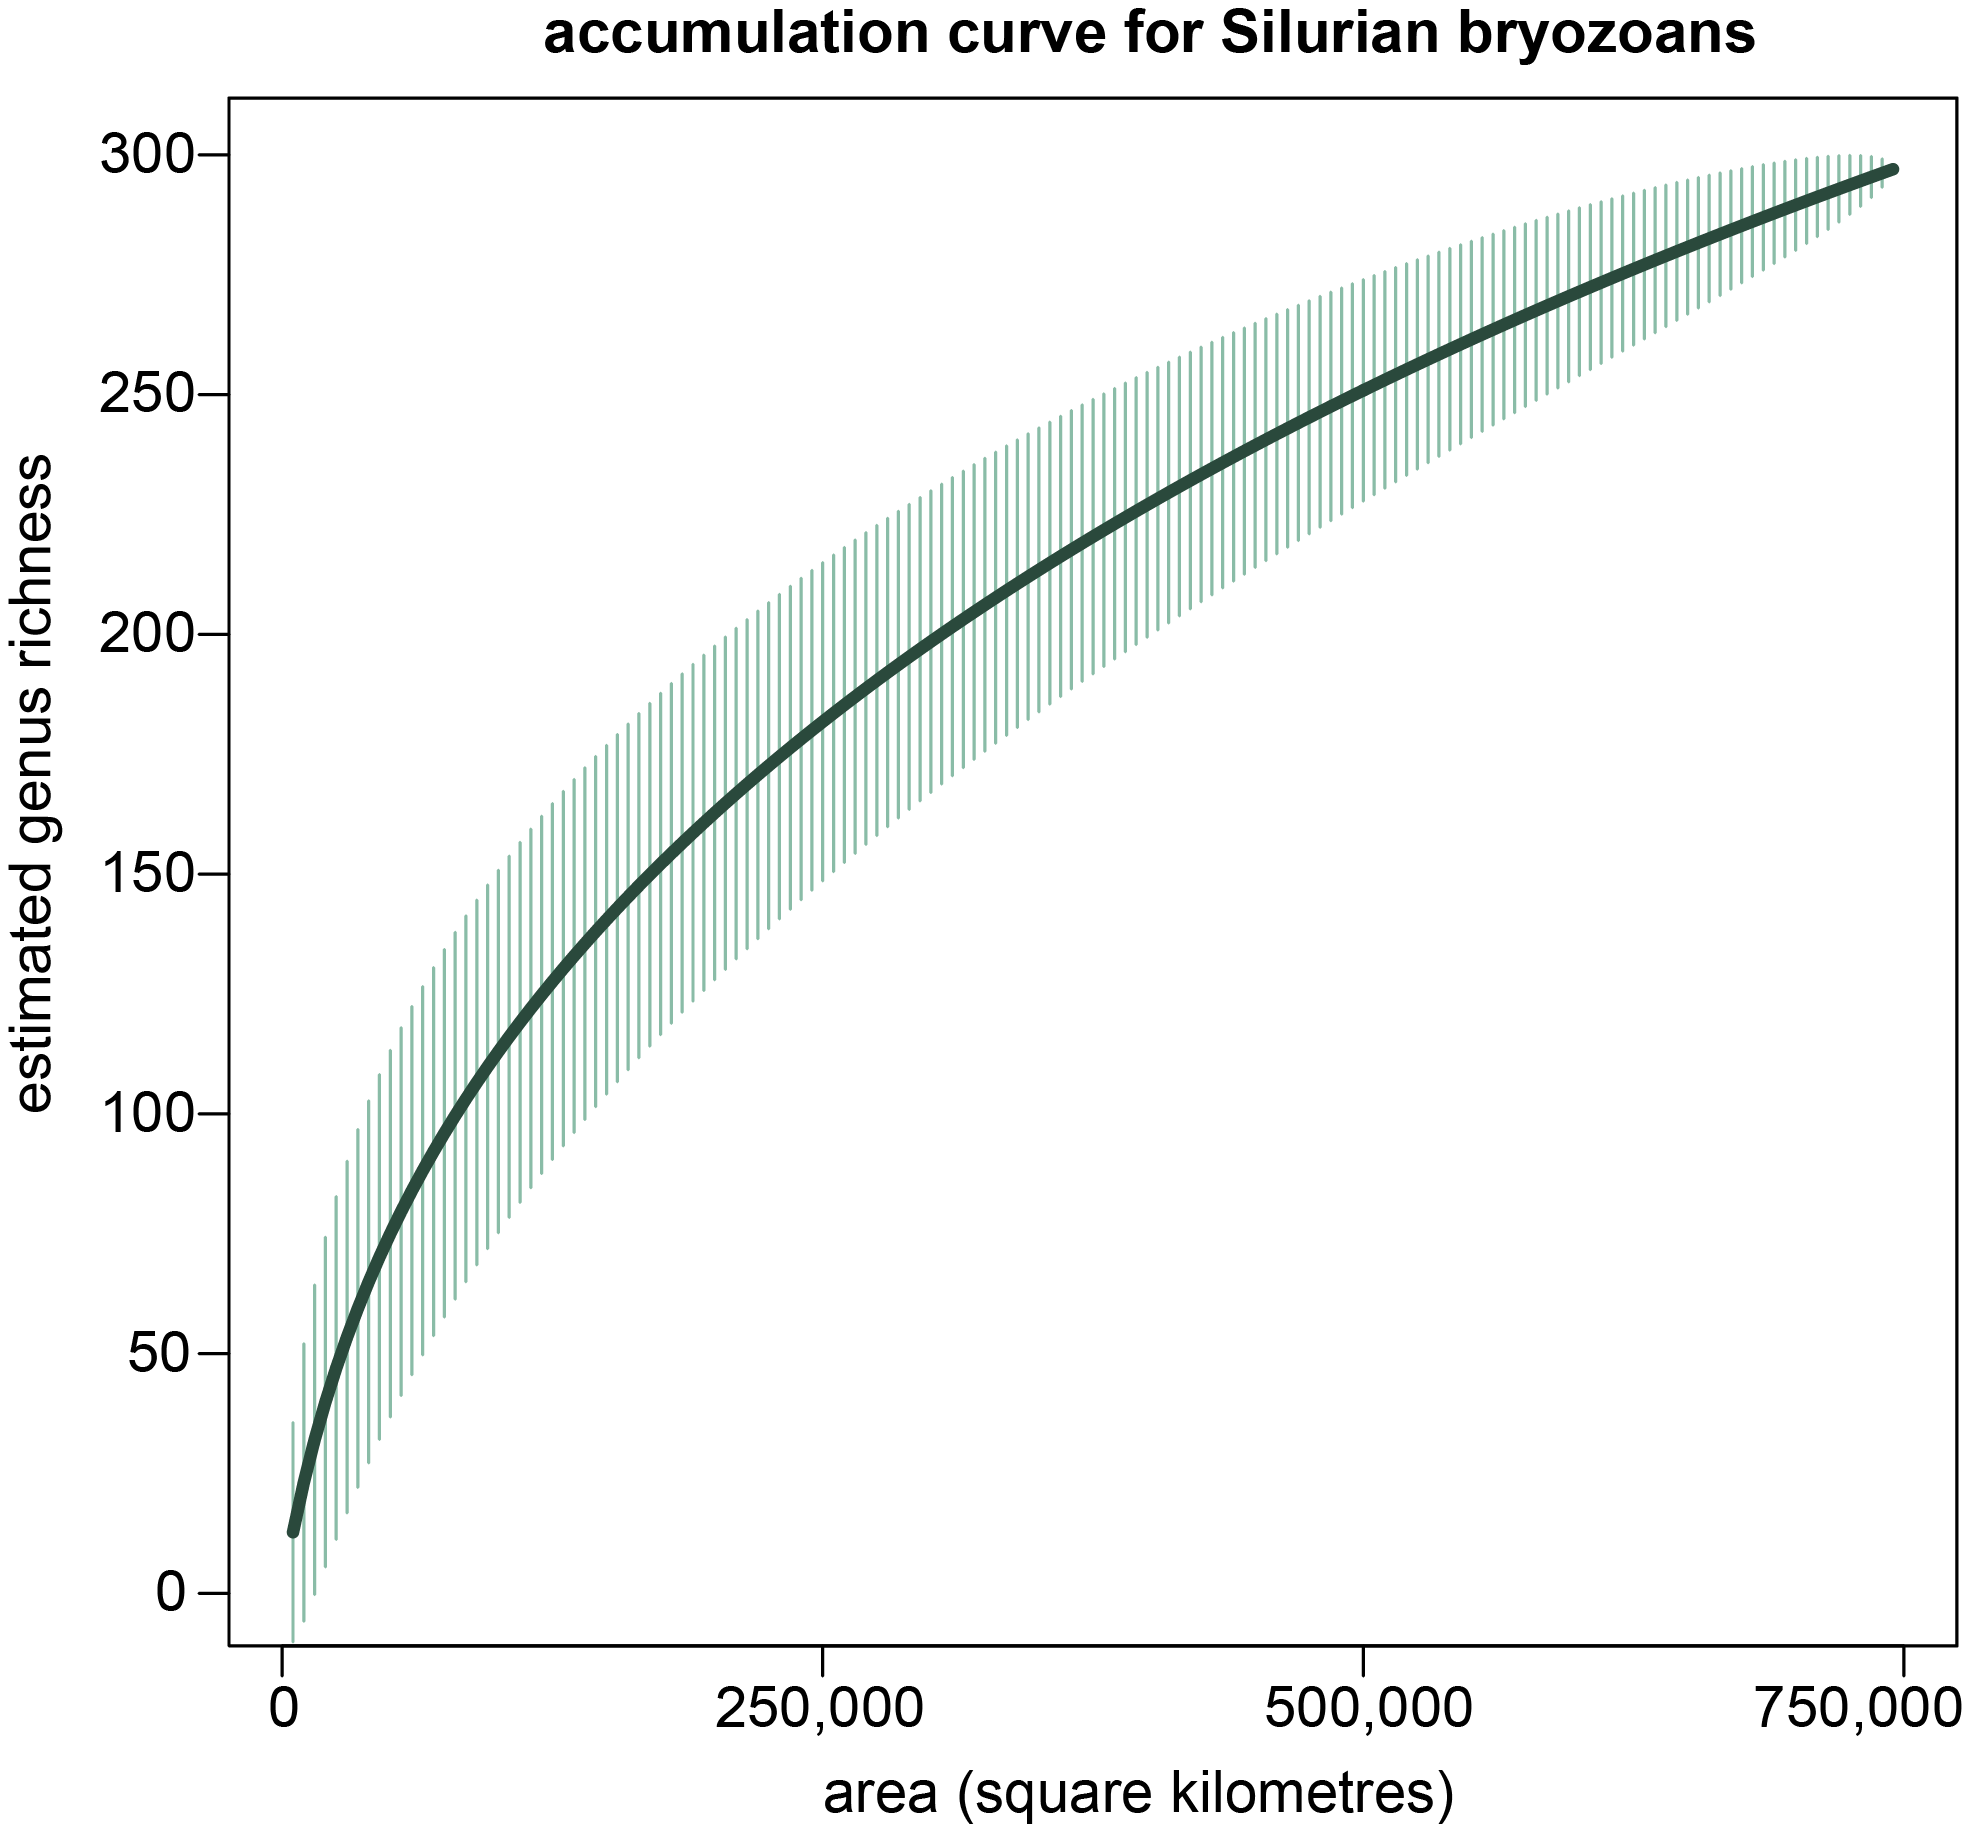
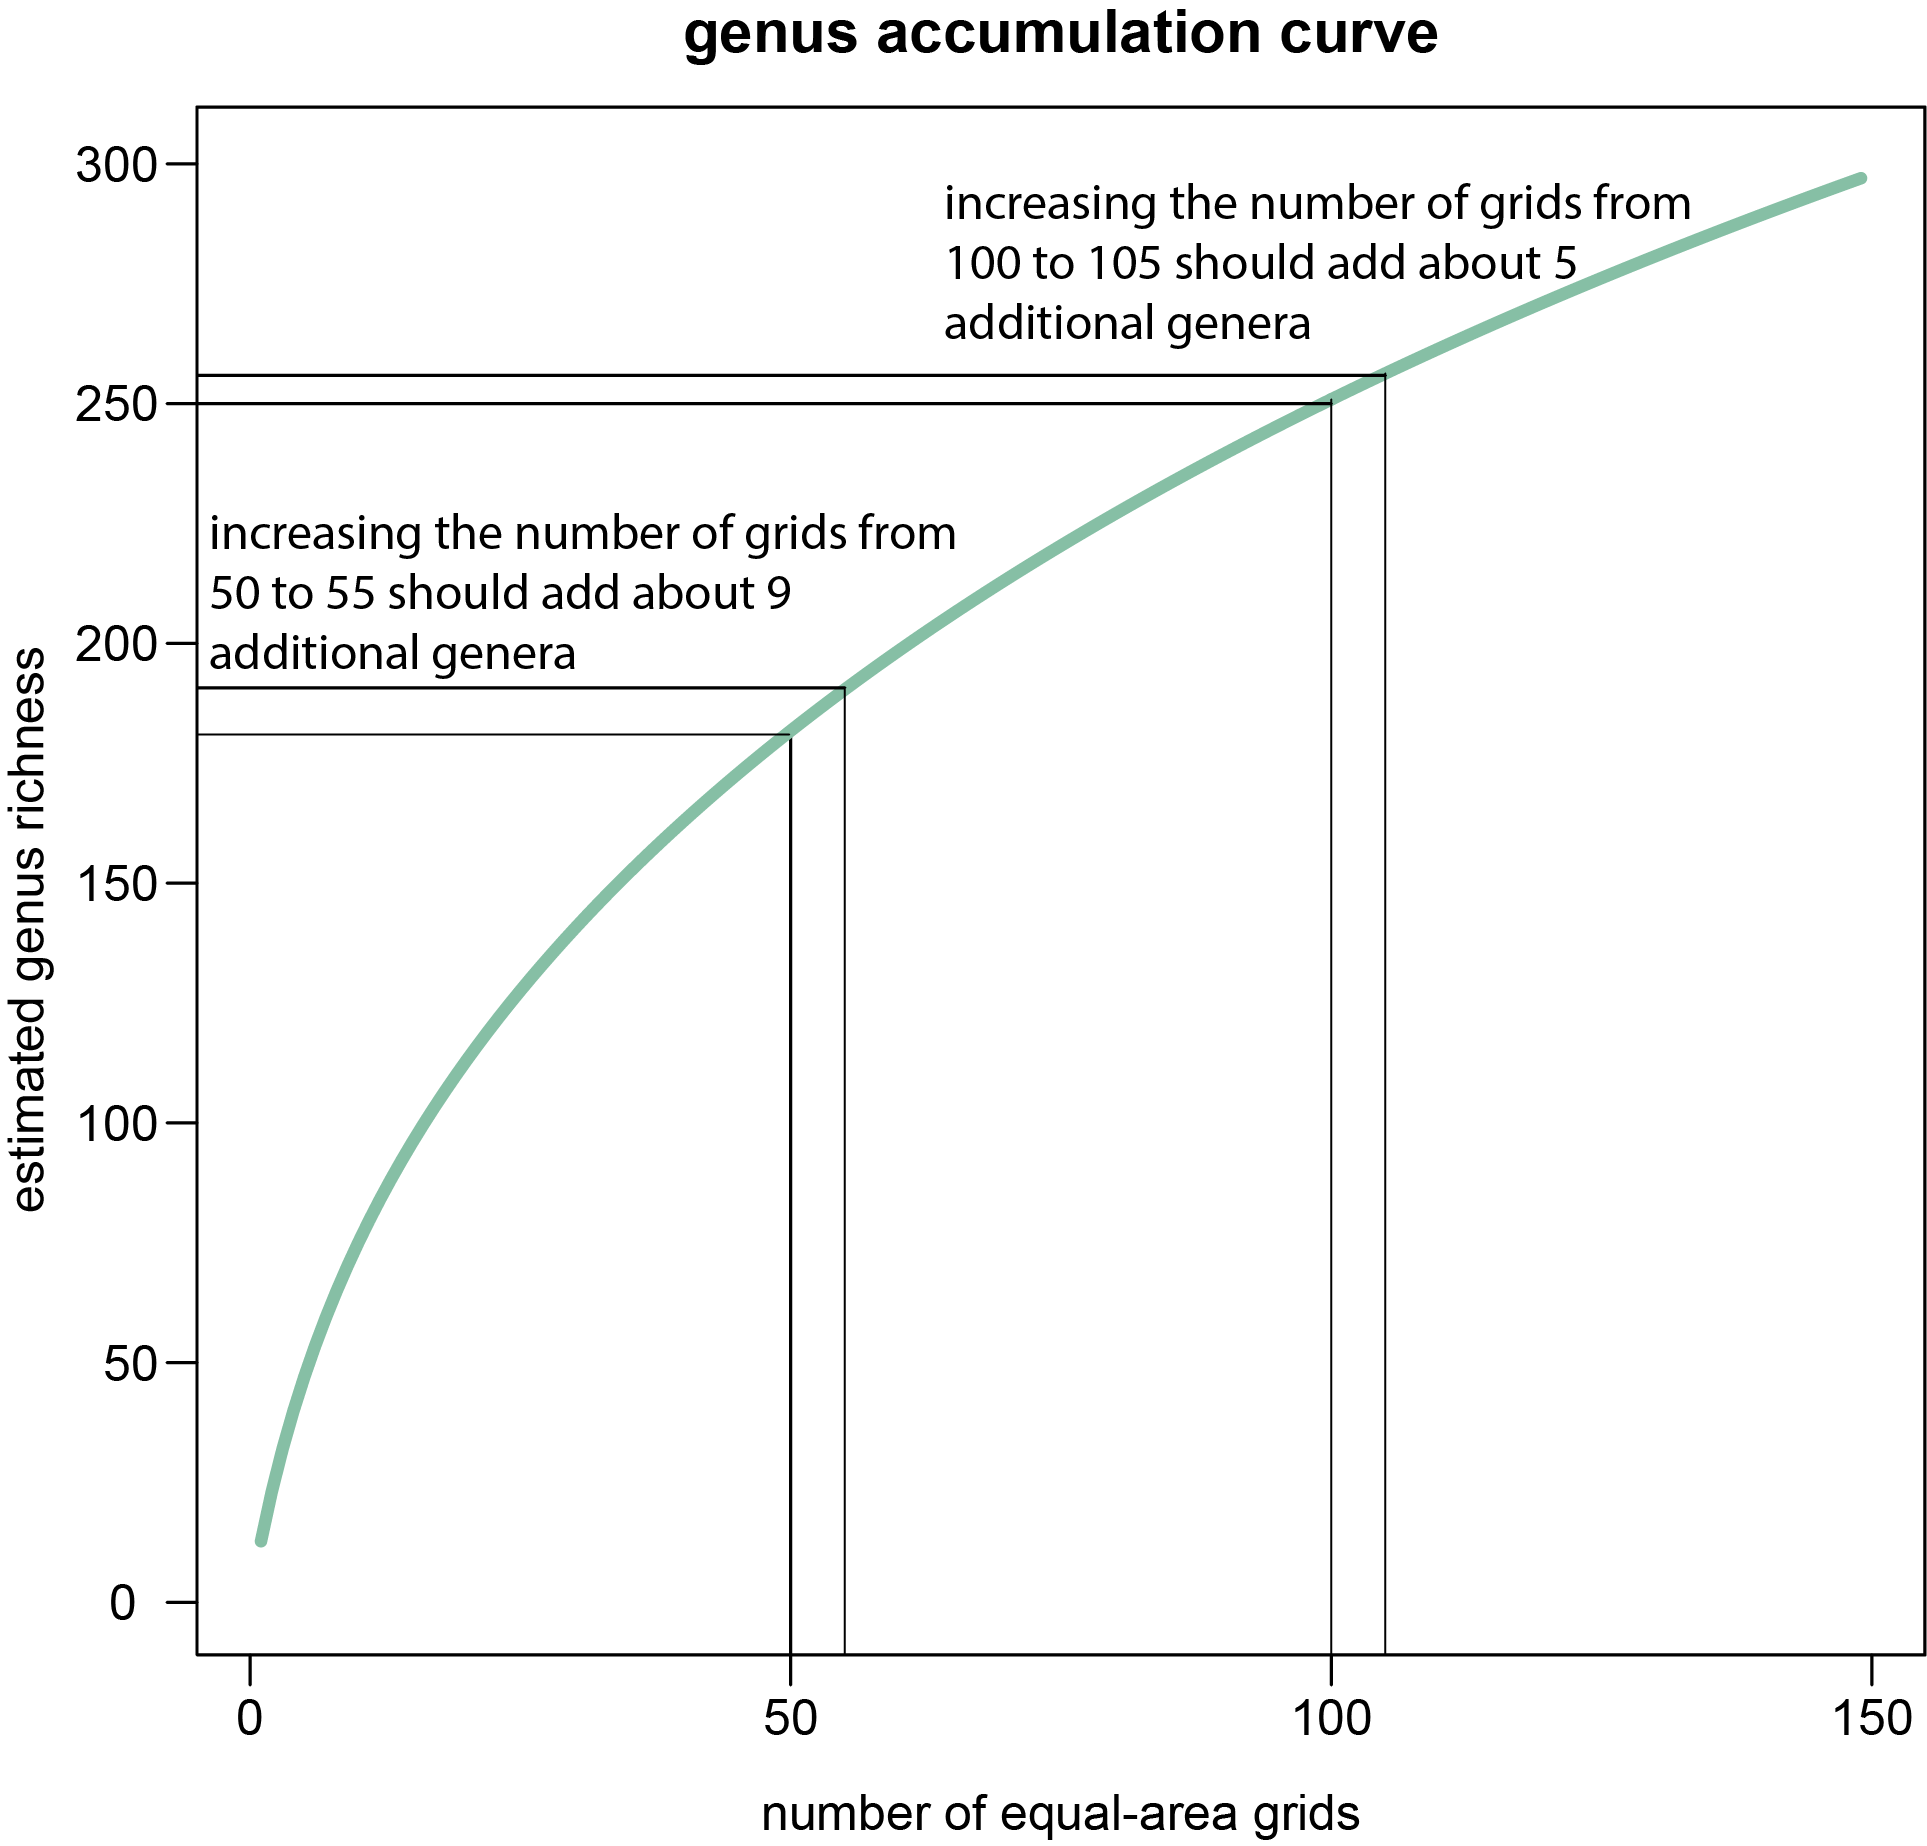
fixed the accumulation curve figs a bit

Changed region(s): [[0.0, 0.0, 1.0, 0.9962]]

diff --git a/LabExercise5.md b/LabExercise5.md
@@ -477,42 +477,63 @@ We can see right away from the plot that it is a better fit visually, and we can
 3. Fit a power law function to the RAD for each Paleogene stage using the linear model form.
 4. Using `plot()`, `lm()`, `cor.test()` or other statistical methods, describe the qualitative relationship between the coefficient of your power-law function and Gini Coefficient, Pielou's J, richness, Shannon's H, and Gini-Simpson.
 
-## Sampling: Introduction
-Let us assume that now we have a sufficient understanding of many different definitions of diversity and have chosen one that we feel is appropriate for our hypothesis. The next step we have to check is whether our data is of sufficient quality for us to accurately estimate the diversity of the population. [As we discussed earlier](#richness-downside), the most common quality-control problem in diversity analysis is variable sampling effort. As a general rule, the greater the effort, the greater the diversity.
+## Accumulation Curve: Introduction
+Let us assume that now we have a sufficient understanding of many different definitions of diversity and have chosen one that we feel is appropriate for our hypothesis. The next step we have to check is whether our data is of sufficient quality for us to accurately estimate the diversity of the population. [As we discussed earlier](#richness-downside), the most common quality-control problem in *comparative diversity analysis* (i.e., comparing diversity among different samples) is variable sampling effort. As a general rule, the greater the effort, the greater the diversity.
 
-This is usually best visualized with something called an Accumulation Curve or Collector's Curve. An accumulation curve is any curve where the X-axis is some measure of sampling effort (e.g., Area Sampled, Time spent sampling, number of workers) and where the Y-axis is some measure of diversity (almost always richness). A collector's curve is a very specific type of accumulation curve where the measure of effort (i.e., the x-axis) is the number of individuals encountered. Let's try making one from Paleobiology Database data.
+This is usually best visualized with something called an Accumulation Curve or Collector's Curve. An accumulation curve is any curve where the X-axis is some measure of sampling effort (e.g., Area Sampled, Time spent sampling, number of workers) and where the Y-axis is some measure of diversity (almost always richness). A collector's curve (sometimes called a rarefaction curve) is a very specific type of accumulation curve where the measure of effort (i.e., the x-axis) is the number of individuals encountered. 
+
+![VEGANACCUMULATION](Lab5Figures/accumulation.png)
+
+Accumulation curves are mostly useful because they illustrate that expected number of species added to your pool grows non-linearly per unit effort (area). This is important when attempted to standardize for effort, because you cannot simply standardize at a constant rate because *the slope changes depending where you are on the x-axis*. Therefore, seeing if your collector's curve has begun to level off (begun to show diminishing returns) is a good way to see how thoroughly you have sampled population, and how much more effort you may need to put in. (Warning: what counts as leveled off is highly arbitrary)
+
+## Accumulation Curve: Calculation
+Let's try and derive the same curve that we did from above.
 
 ````R
-# Let's download a dataset of Silurian Anthozoans
+# Download a dataset of Silurian Anthozoans from the PBBD
 Silurian = velociraptr::downloadPBDB("Anthozoa","Silurian","Silurian")[,c("genus","paleolng","paleolat")]
+# Once again, let's clean up the taxonomy a bit
+Silurian = velociraptr::cleanTaxonomy(Silurian,"genus")
 # We can turn our dataframe into a "spatial" (GIS) object, this makes it friendlier for things like
 # map projection and other geospatial analyses
 Silurian = sf::st_as_sf(Silurian,coords=c("paleolng","paleolat"))
-# Specify the coordinate system as WGS 84, which is the lat, lng standard you will usually encounter
+# Specify the coordinate system as WGS 84, which is the lat, lng you normally encounter
 sf::st_crs(Silurian) = 4326
 
-
-# Let's plot a map of the Silurian continents
+# Let's download a paleogeographic map of the Silurian
 Map = velociraptr::downloadPaleogeography(Age=430)
+
+# When plotting maps in base r, it is often best to set the margins, plot size, and aspect ratio in advance
+Width <- Map@bbox[3] - Map@bbox[1]
+Height <- Map@bbox[4] - Map@bbox[2]
+Aspect <- Height / Width
+quartz(width = 10, height = 10*Aspect)
+par(mar = rep(0, 4), xaxs='i', yaxs='i')
+# Plot the map of Silurian continent positions
 plot(Map,col="darkgrey",lty=0)
 
 # Lets add points to represent our coral occurrences to the map
 plot(Silurian,add=TRUE,col="dodgerblue",pch=16)
 
 # Let's overlay an equal-area grid on to this map
+# This is actually a poorly made equal area grid, but let's ignore that for the moment
 Grid = sf::st_read("https://macrostrat.org/api/v2/grids/longitude?latSpacing=5&cellArea=500000&format=geojson_bare")
 plot(sf::st_cast(Grid,"MULTILINESTRING"),col="black",lwd=0.5,add=TRUE)
 ````
 
-Let's calculate which genera are in which grids.
+![SILURIANBRYOS](Lab5Figures/silurian.png)
+
+Now, we need to identify which genera occur in which grid. We can then use this information to convert our data into a standard contigency table. A contingency table is usually called a "sites x species", "samples by species", or community matrix in ecology. By convension, the rows usually refer the sites/samples, and the columns usually refer to the taxa. A community matrix can have abundance values or it can be a boolean presence/absence table.
 
 ````R
 # Let's find which Silurian genera intersect with which grids
 Intersects = which(sf::st_intersects(Silurian,Grid,sparse=FALSE),arr.ind=TRUE)
+
 # Let's create a character matrix where the first column is the fossil occurence, and the second column is the grid it occurs in
 GeneraGrids = cbind(genus=as.character(as.data.frame(Silurian)[Intersects[,"row"],"genus"]),grid=Intersects[,"col"])
 
-# Take a quick look at the output
-head(GeneraGrids)
+# Let's turn it into a presecen/absence matrix, where the columns are each a genus, the rows are an equal-area grid, and the cells are
+# the number of individuals of that genus in that grid.
+GeneraGrids = velociraptr::presence(GeneraGrids,Rows="grid",Columns="genus")
 ````
 
